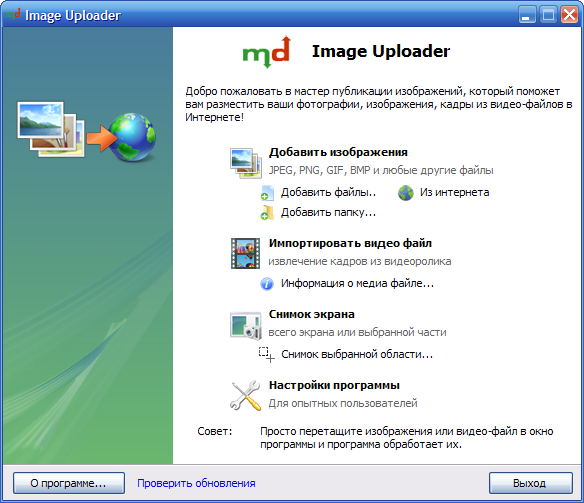
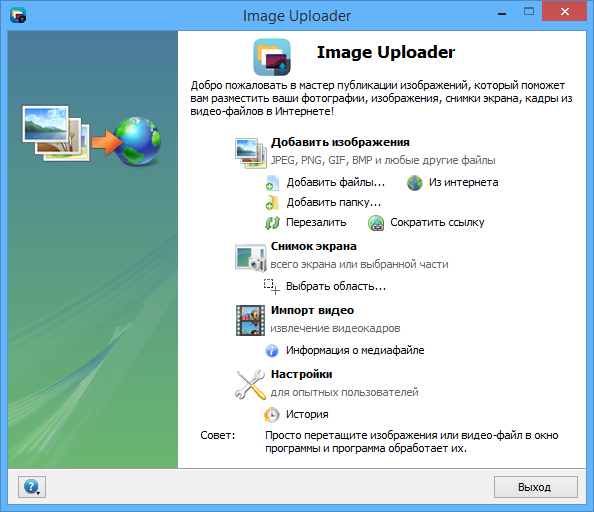
Fix tab order in ftp dialog Update docs

Changed region(s): [[0.0, 0.0, 1.0, 1.0], [0.339, 0.835, 0.4007, 0.8648]]

diff --git a/Docs/ru_RU/index.html b/Docs/ru_RU/index.html
@@ -1,6 +1,5 @@
-<!DOCTYPE html PUBLIC "-//W3C//DTD XHTML 1.0 Strict//EN"
-"http://www.w3.org/TR/xhtml1/DTD/xhtml1-strict.dtd">
-<html xmlns="http://www.w3.org/1999/xhtml">
+<!doctype html>
+<html lang="ru">
 <head>
 	<meta http-equiv="content-type" content="text/html; charset=utf-8" />
 	<title>Image Uploader - программа для быстрой загрузки изображений</title>
@@ -14,8 +13,8 @@
     <ul>
         <li><a href="index.html">Описание</a></li>        
         <li><a href="usage.html">Использование</a></li>
-	 <li><a href="advanced.html">Дополнительная информация</a></li>	
- <li><a href="../api/html/index.html">Scripting API</a></li>			
+	    <li><a href="advanced.html">Дополнительная информация</a></li>	
+        <li><a href="../api/html/index.html">Scripting API</a></li>			
 		<!--<li><a href="index.html#license">Лицензия</a></li>
         <li><a href="index.html#versions">История версий</a></li>-->
     </ul>
@@ -26,14 +25,21 @@
 <p>Программа предназначена для загрузки изображений в Интернет.
 Для хранения файлов программа использует несколько десятков общедоступных хостингов изображений и файлов. Среди них такие известные сайты, как flickr.com, imgur.com, Yandex.Disk, Dropbox и многие другие.</p>
 
-<div class="image"><img src="../Pics/main_window2.png" title="Вид главного окна программы" alt="Вид главного окна программы"/></div>
+<div class="image"><img src="../Pics/main_window.png" title="Вид главного окна программы" alt="Вид главного окна программы"/></div>
 <div class="image_text">Вид главного окна программы</div>
 <p><strong>Основные возможности программы:</strong></p>
 <ul>
-<li><strong>Загрузка изображений и файлов в интернет</strong> <br />Программа позволяет загружать изображения и файлы на множество сайтов &nbsp;(<a href="/ru/imageuploader_servers">список</a>). Среди них такие известные сайты, как radikal.ru,&nbsp;<span>Yandex.Fotki, Google&nbsp;<span>Picasa WebAlbums,&nbsp;<span>flickr.com,&nbsp;<span>Yandex.Disk. Также можно загружать на FTP сервер.<br /><br /></span></span></span></span>При этом программа автоматически генерирует миниатюры желаемого размера, масштабирует изображения, по желанию может добавить надпись или водяной знак на изображение. Поддерживаются форматы изображений JPG, PNG, BMP,&nbsp;GIF, &nbsp;TIFF.<br />После загрузки программа выдает список ссылок или коды HTML или BBCode (для форумов, блогов и т.п.). Ссылки могут быть автоматически скопированы в буфер обмена.</li>
+<li><strong>Загрузка изображений и файлов в интернет</strong> <br />Программа позволяет загружать изображения и файлы на множество сайтов &nbsp;(<a href="https://svistunov.dev/ru/imageuploader_servers" target="_blank">список</a>). 
+    Среди них такие сайты, как fastpic.ru, flickr.com, Google Drive, Yandex.Disk. Также можно загружать на FTP/SFTP сервер.<br /><br />
+    При этом программа автоматически генерирует миниатюры желаемого размера, масштабирует изображения, по желанию может добавить надпись или водяной знак на изображение. 
+    Поддерживаются форматы изображений JPG, PNG, BMP, GIF, TIFF, WEBP.<br />После загрузки программа выдает список ссылок или коды HTML, BBCode и Markdown (для форумов, блогов и т.п.). 
+    Ссылки могут быть автоматически скопированы в буфер обмена.</li>
 </ul>
 <ul>
-<li><strong>Извлечение кадров из видео-файлов</strong><br /> Программа умеет извлекать заданное количество кадров из видео-файлов форматов AVI, MPG, VOB, WMV, MKV, TS,MOV и многих других. Программа умеет использовать установленные в системе кодеки (рекомендуется использовать K-lite Codec Pack), но если у вас не установлены кодеки и вы не хотите ими засорять систему, программа может использовать библиотеку FFmpeg, которая поставляется вместе с программой (в портативной версии, а при использовании инсталятора нужно отметить соответствующую галочку)<br /><span>Полученные кадры можно по отдельности загрузить на сервер, либо скомпоновать в одну картинку-мозаику.</span><br />Функция предназначена в первую очередь для релизеров торрент-трекеров.</li>
+<li><strong>Извлечение кадров из видео-файлов</strong><br /> Программа умеет извлекать заданное количество кадров из видео-файлов форматов AVI, MPG, VOB, WMV, MKV, TS, MOV и многих других. 
+    Программа умеет использовать установленные в системе кодеки (рекомендуется использовать <a href="https://codecguide.com/download_kl.htm" target="_blank">K-Lite Codec Pack</a>), но если у вас не установлены кодеки и вы не хотите ими засорять систему, 
+    программа может использовать библиотеку FFmpeg, которая поставляется вместе с программой (в портативной версии, а при использовании инсталятора нужно отметить соответствующую галочку)<br />
+    <span>Полученные кадры можно по отдельности загрузить на сервер, либо скомпоновать в одну картинку-мозаику.</span><br />Функция предназначена в первую очередь для релизеров торрент-трекеров.</li>
 <li><span><strong>Получение технических данных о мультимедийных файлах</strong> (видео, аудио) с использованием библиотеки MediaInfo</span></li>
 <li><strong>Снимок экрана (скриншот)</strong><br /> Программа умеет делать скриншоты всего экрана или активного окна, или выбранной с помощью мыши области экрана (прямоугольной области, выбранного окна, области произвольной формы).&nbsp;<br /><span>Рисовать на скриншоте можно правой клавишей мыши. &nbsp;</span><span>Чтобы нарисовать вертикальную или горизонтальную линию, удерживайте Shift. Чтобы поменять цвет линии, нажмите среднюю клавишу мыши. Чтобы уменьшить или увеличить толщину линии, нажимайте клавиши "[" и "]".&nbsp;</span></li>
 <li><strong>Редактор снимков (новинка в версии 1.3.1)</strong><br /> Вы можете быстро отредактировать сделанный скриншот: обрезать, добавить линии, текст, стрелки, размытие, подсветить текст маркером и т.д.</br> 
@@ -42,15 +48,14 @@
 <li><strong>Сокращение ссылок<br /></strong>Программа умеет сокращать ссылки, как для загруженных файлов (после загрузки нужно нажать кнопку Опции и выбрать пункт "Сократить ссылки"), так и просто любую ссылку из буфера обмена</li>
 <li><strong>Интеграция в проводник Windows<br /></strong>Программа добавляет в контекстное меню файлов и папок подменю "Image Uploader" (<span>правый клик мыши по файлу)</span>, с помощью которого можно быстро загрузить файл на сервер.</li>
 <li><strong>Поддержка множества акаунтов<br /></strong>Вы можете использовать сразу несколько аккаунтов на одном и том же сайте.</li>
-<li><strong>Перезаливка<br /></strong>Загрука изображений из текста с сохранением исходной разметки.&nbsp;<br />Функция может быть полезна релизам торрент-трекеров: часто в описании раздач картинки "умирают", программа поможет вам их восстановить, конечно, если вы первоначально загружали эти картинки с помощью Image Uploader. Для этого по-умолчанию программа сохраняет кадры из видеофайлов в специальной папке.&nbsp;<br />Вставьте код с умершими ссылками в окно "Перезаливки", и если эти файлы остались на вашем компьютере, программа заново загрузит картинки на выбранный сервер, а также сгенерирует миниатюры.&nbsp;<br /><br /></li>
+<li><strong>Перезаливка<br /></strong>Загрузка изображений из текста с сохранением исходной разметки.</li>
 </ul>
 <p><b>Системные требования</b></p>
-
-<p>Поддерживаемые операционные системы: XP SP3/Vista/7/8.1/10 (а также серверные версии)</p>
+<p>Поддерживаемые операционные системы: Windows 7/8/8.1/10/11 (x86)</p>
    </div>
 </div>
 <div id="footer">
-<p>Copyright &copy; 2007 - 2019, Sergey Svistunov</p>
+    <p>Copyright &copy; 2007 - 2023, Sergey Svistunov</p>
 </div>
 </body>
 </html>

diff --git a/Docs/ru_RU/usage.html b/Docs/ru_RU/usage.html
@@ -1,6 +1,5 @@
-<!DOCTYPE html PUBLIC "-//W3C//DTD XHTML 1.0 Strict//EN"
-"http://www.w3.org/TR/xhtml1/DTD/xhtml1-strict.dtd">
-<html xmlns="http://www.w3.org/1999/xhtml">
+<!doctype html>
+<html lang="ru">
 <head>
 	<meta http-equiv="content-type" content="text/html; charset=utf-8"/>
 	<title>Image Uploader - использование</title>
@@ -14,18 +13,14 @@
     <ul>
         <li><a href="index.html">Описание</a></li>        
         <li><a href="usage.html">Использование</a></li>
-	 <li><a href="advanced.html">Дополнительная информация</a></li>
- <li><a href="../api/html/index.html">Scripting API</a></li>			
+	 	<li><a href="advanced.html">Дополнительная информация</a></li>
+ 		<li><a href="../api/html/index.html">Scripting API</a></li>			
 		<!--<li><a href="index.html#license">Лицензия</a></li>
         <li><a href="index.html#versions">История версий</a></li>-->
     </ul>
 </div>
 <div id="content">
     <div id="left">
-
-<p>Программа предназначена для загрузки изображений в Интернет.
-Для хранения файлов программа использует несколько десятков общедоступных хостингов изображений и файлов. 
-Среди них такие известные сайты, как Imageshack, Yandex.Fotki, iPicture.ru, Picasa, rapidshare.com и многие другие.</p>
 <h1>Страницы мастера</h1>
 <p>После запуска программы пользователя приветствует главное окно программы – окно мастера работы с изображениями. 
 Благодаря тому, что программа представляет собой мастер, позволяющий пошагово получить нужный результат, 
@@ -33,7 +28,7 @@
 мастера можно путем нажатия кнопок «Далее» и «Назад» соответственно.</p>
 
 <h3>1. Окно приветствия</h3>
-<div class="image"><img src="../Pics/main_window2.png" title="Вид главного окна программы" alt="Вид главного окна программы"/></div>
+<div class="image"><img src="../Pics/main_window.png" title="Вид главного окна программы" alt="Вид главного окна программы"/></div>
 <div class="image_text">Окно приветствия</div>
 <p>На странице приветствия программа рассказывает пользователю, какие функции она может выполнить.</p>
  <h3>2. Страница импортирования видео файла</h3>
@@ -73,16 +68,16 @@
 			 	 <li><b>прямоугольной области, области произвольной формы</b> — области экрана, выбранной с помощью мыши</li>
 				 <li><b>экранного элемента</b> — окна, части окна, кнопки, панели, текстового поля и т.п., выбранных с помощью мыши</li>
 				 </ul>
-				 <p>Также можно установить <a href="#settings">задержку в секундах</a>, после которой будет выполняться скриншот 
+				 <p>Также можно установить задержку в секундах, после которой будет выполняться скриншот 
 				 (действительно только для первых двух типов снимка).</p>
-			  	<h3>Выбор области экрана с помощью мыши</h3>
+			  	<h3>Выбор области экрана с помощью мыши (старый способ)</h3>
 				 Для выбора прямоугольной области, пользователь должен  нажать левую кнопку мыши, указав тем самым первый угол области и не отпуская кнопки, указать противоположный по диагонали угол, отпустив на нём нажатую кнопку. В процессе перемещения указателя мыши на экране область выбираемой границы будет обозначена прямоугольником некоторого цвета, динамически изменяющим свои размеры в процессе перемещения мыши по экрану монитора. 
 				 Если в процессе выбора области пользователь нажмёт клавишу Escape — команда получения снимка будет прервана.
 				 <p>Для выбора области прямоугольной области, пользователь должен нажать левую кнопку мыши, и не отпуская её, нарисовать на экране границу выделяемой области. Граница может иметь самопересечения.</p>
-				 <p>Для выбора оконного элемента, пользователь должен следать одиночный клик левой кнопокй мыши по интересующему его элементу экрана. В процессе перемещения мыши доступные элементы будут подсвечиваться цветом.</p>
+				 <p>Для выбора оконного элемента, пользователь должен следать одиночный клик левой кнопкой мыши по интересующему его элементу экрана. В процессе перемещения мыши доступные элементы будут подсвечиваться цветом.</p>
 				<p>
 				<b>Множественый выбор</b></p>
-				Выбор сразу нескольких областей экрана достпен в режим выбора прямоугольной области и выбора экранного элемента.
+				Выбор сразу нескольких областей экрана доступен в режим выбора прямоугольной области и выбора экранного элемента.
 				<p> Если при выборе области держать нажатой клавишу Shift, то после выбора первой области, можно будет выбрать еще одну область, которая будет совмещена с первой.</p>
 				<p>  Если при выборе области держать нажатой клавишу Ctrl, то после выбора области, можно будет выбрать еще одну область, которая будет исключена из выделения (её не будет на снимке).</p>
  <b>Рисование</b></p>
@@ -95,7 +90,7 @@
 </div>
 <div id="footer">
 
-<p>Copyright &copy; 2007 - 2019, Sergey Svistunov</p>
+<p>Copyright &copy; 2007 - 2023, Sergey Svistunov</p>
 </div>
 </body>
 </html>

diff --git a/Docs/ru_RU/advanced.html b/Docs/ru_RU/advanced.html
@@ -1,6 +1,5 @@
-<!DOCTYPE html PUBLIC "-//W3C//DTD XHTML 1.0 Strict//EN"
-"http://www.w3.org/TR/xhtml1/DTD/xhtml1-strict.dtd">
-<html xmlns="http://www.w3.org/1999/xhtml">
+<!doctype html>
+<html lang="ru">
 <head>
 <meta http-equiv="content-type" content="text/html; charset=utf-8" />
 <title>Image Uploader - Дополнительная информация по использованию</title>
@@ -17,8 +16,8 @@
     <ul>
         <li><a href="index.html">Описание</a></li>        
         <li><a href="usage.html">Использование</a></li>
-	 <li><a href="advanced.html">Дополнительная информация</a></li>	
- <li><a href="../api/html/index.html">Scripting API</a></li>		
+	 	<li><a href="advanced.html">Дополнительная информация</a></li>	
+ 		<li><a href="../api/html/index.html">Scripting API</a></li>		
 		<!--<li><a href="index.html#license">Лицензия</a></li>
         <li><a href="index.html#versions">История версий</a></li>-->
     </ul>
@@ -60,7 +59,7 @@
                 <li><code>/tray</code> — запуск программы в свернутом режиме (если включена опция "Показывать значок в трее")</li>
                 <li><code>/uninstall</code> — удаление всех записей программы в системном реестре</li>
                 <li><code>/debuglog</code> (>= v.1.3.2) — показать лог ошибок при запуске</li>	
-    
+				<li><code>/serverschecker</code> — (>= v.1.4.0) проверка работоспособности серверов</li>
 </ul>
  
 <h2 id="servers">Добавление и редактирование серверов</h2> 
@@ -68,7 +67,7 @@
 
 Информация о серверах, доступных в программе, содержится в файлe <code>servers.xml</code>, 
 находящемся в подкаталоге <code>Data</code> каталога, в который установлена программа, либо в 
-системной папке <code style="">%appdata%\Image Uploader</code>, относящейся к текущему пользователю. 
+системной папке <code>%appdata%\Image Uploader</code>, относящейся к текущему пользователю. 
 Программа использует этот файл в режиме "только для чтения". Этот файл <b>не предназначен для редактирования</b>. 
 Все изменения будут потеряны после следующего обновления программы. Свои сервера следует добавлять в папку <code>Data\Servers\</code> 
 (если вы используете портативную версию) или <code>%appdata%\Image Uploader\Servers\</code> (если вы использовали инсталлятор) 
@@ -278,7 +277,7 @@ To remove default field, pass an empty value.
 </div>
 </div>
 <div id="footer">
-<p>Copyright &copy; 2007 - 2019, Sergey Svistunov</p>
+<p>Copyright &copy; 2007 - 2023, Sergey Svistunov</p>
 </div>
 
 </body>
